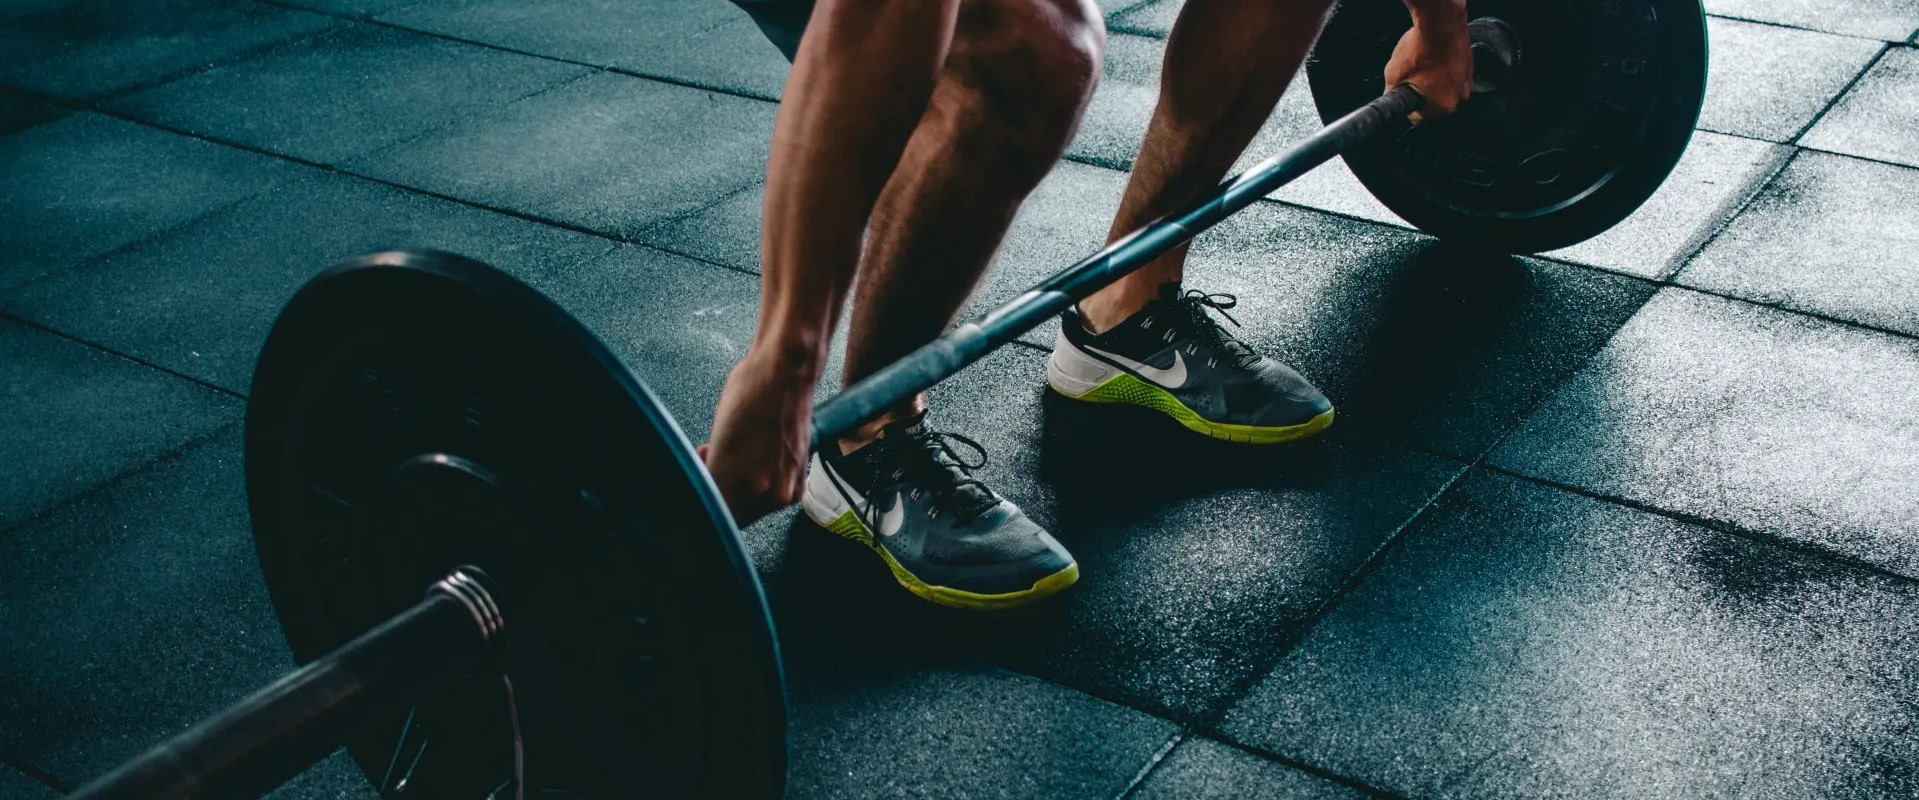
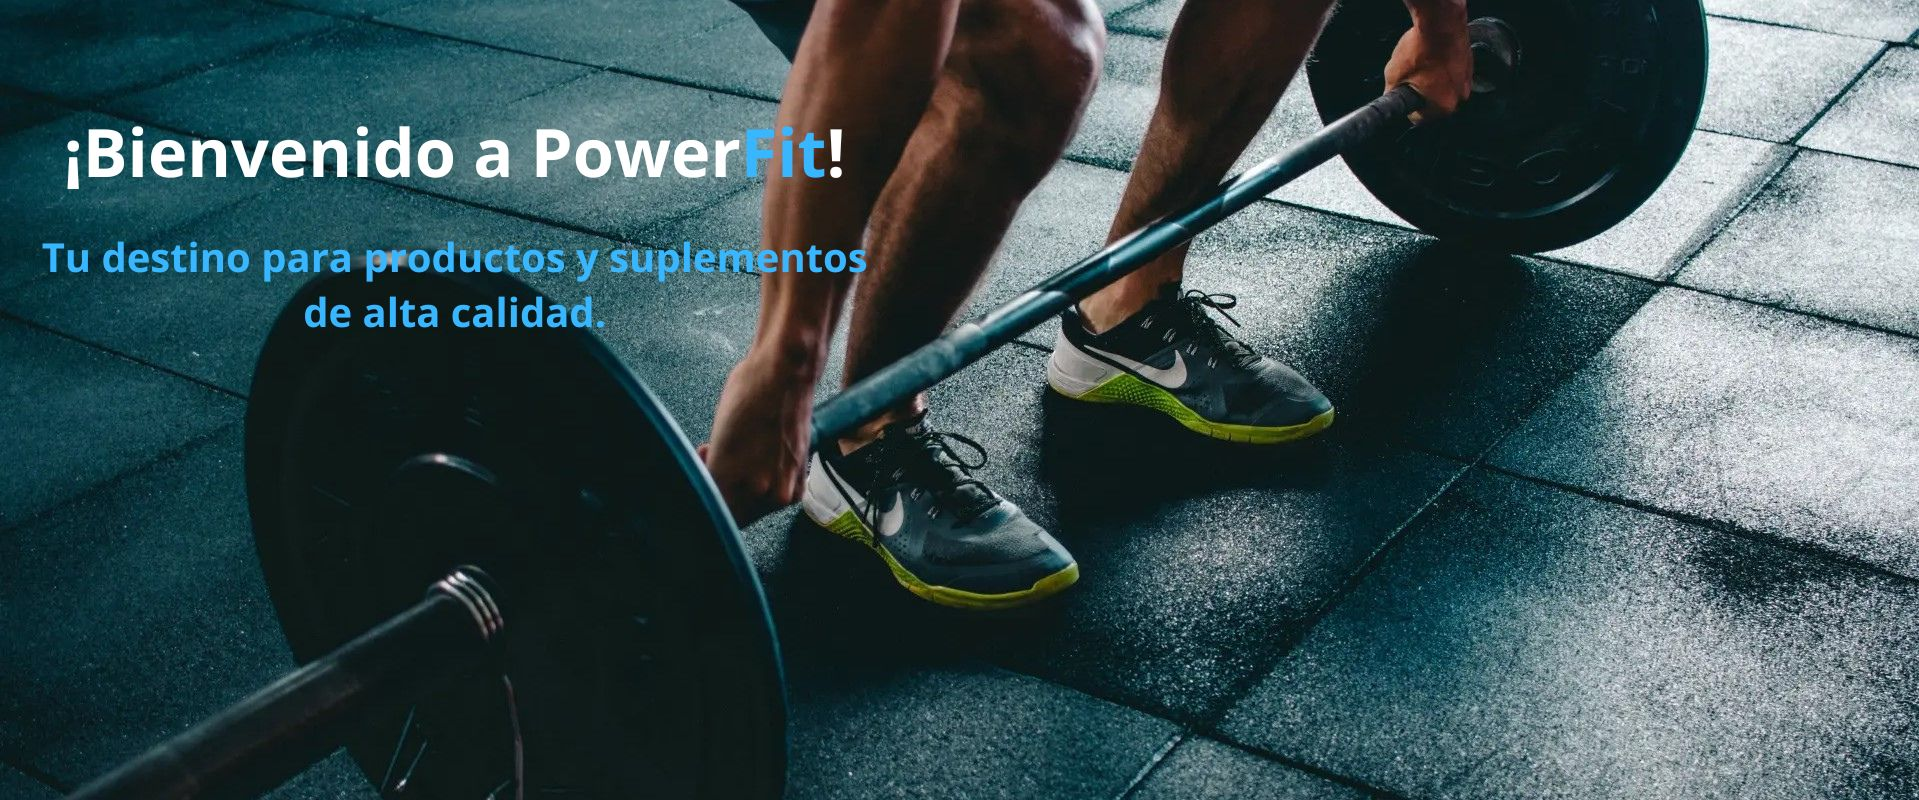
feat: avance estructura principal

Changed region(s): [[0.0307, 0.1562, 0.4612, 0.25], [0.0, 0.3125, 0.4612, 0.3438], [0.1537, 0.375, 0.3075, 0.4062]]

diff --git a/frontend/E-commerce/src/Componentes/Principal/principal.jsx b/frontend/E-commerce/src/Componentes/Principal/principal.jsx
@@ -1,4 +1,3 @@
-
 import banner from '../../assets/banner.jpg';
 import entrenamiento from '../../assets/entrenamiento.webp';
 import * as React from 'react';
@@ -12,75 +11,107 @@ import Divider from '@mui/material/Divider';
 import Box from '@mui/material/Box';
 import List from '@mui/material/List';
 import ListItem from '@mui/material/ListItem';
+import CheckIcon from '@mui/icons-material/Check';
+import Button from '@mui/material/Button';
 
 export default function principal() {
   return (
     <>
       <img src={banner} alt="Banner" />
-      <Divider sx={{ width:'70%', m:3 }} />
-      <Typography variant="h1" sx={{ 
-        fontSize: '3rem', 
-        fontWeight: '600', 
-        color: '#333', 
-        textAlign: 'center',
-      }}>
+      <Divider sx={{ width: '70%', m: 3 }} />
+      <Typography
+        variant="h1"
+        sx={{
+          fontSize: '3rem',
+          fontWeight: '600',
+          color: '#333',
+          textAlign: 'center',
+        }}
+      >
         Categorias
       </Typography>
 
-        <Grid container spacing={12}> 
-          <Grid item xs={4}> 
-            <Carta suplementos={suplementos} titulo="Suplementos"/>
-          </Grid>
-          <Grid item xs={4}>
-            <Carta suplementos={kinesiologia} titulo="Kinesiologia"/>
-          </Grid>
-          <Grid item xs={4}>
-          <Carta suplementos={gimnasio} titulo="Gimnasio"/>
-          </Grid>
+      <Grid container spacing={12}>
+        <Grid item xs={4}>
+          <Carta suplementos={suplementos} titulo="Suplementos" />
         </Grid>
-        <Divider sx={{ width:'70%', m:3 }} />
+        <Grid item xs={4}>
+          <Carta suplementos={kinesiologia} titulo="Kinesiologia" />
+        </Grid>
+        <Grid item xs={4}>
+          <Carta suplementos={gimnasio} titulo="Gimnasio" />
+        </Grid>
+      </Grid>
+      <Divider sx={{ width: '70%', m: 3 }} />
 
-        <Box sx={{width:'1980px'}} >
-          <Grid container spacing={4}>
-            <Grid item> 
-            <img src={entrenamiento} alt="entrenamiento"  />
-            </Grid>
-            <Grid>
-
-              <Box
+      <Box sx={{ width: '1980px' }}>
+        <Grid container spacing={4}>
+          <Grid item>
+            <img src={entrenamiento} alt="entrenamiento" />
+          </Grid>
+          <Grid>
+            <Box
               flex={1}
               padding={4}
-              sx={{  bgcolor: '#f5f5f5', borderRadius: '8px', height:'515px' }}
+              sx={{ bgcolor: '#f5f5f5', borderRadius: '8px', height: '515px' }}
+            >
+              <Typography
+                variant="h3"
+                gutterBottom
+                sx={{ fontWeight: 'bold', color: '#333', textAlign: 'left' }}
               >
-              <Typography variant="h3" gutterBottom sx={{ fontWeight: 'bold', color: '#333' }}>
                 Descubre nuestros productos
               </Typography>
               <List>
-                <ListItem sx={{ fontSize: '1.2rem', lineHeight: '1.5' }}>
-                  Suplementos de alta calidad para potenciar tu rendimiento.
+                <ListItem sx={{ fontSize: '1.5rem', lineHeight: '1.5' }}>
+                  <CheckIcon sx={{color:'#00a1ed'}}/> Suplementos de alta calidad para potenciar tu rendimiento.
                 </ListItem>
-                <ListItem sx={{ fontSize: '1.2rem', lineHeight: '1.5' }}>
-                  Productos específicos para cada objetivo: musculación, pérdida de peso y más.
+                <ListItem sx={{ fontSize: '1.5rem', lineHeight: '1.5' }}>
+                  <CheckIcon sx={{color:'#00a1ed'}}/> Productos específicos para cada objetivo: musculación, pérdida
+                  de peso y más.
                 </ListItem>
-                <ListItem sx={{ fontSize: '1.2rem', lineHeight: '1.5' }}>
-                  Accesorios de gimnasio para un entrenamiento efectivo en casa o en el gym.
+                <ListItem sx={{ fontSize: '1.5rem', lineHeight: '1.5' }}>
+                  <CheckIcon sx={{color:'#00a1ed'}}/> Accesorios de gimnasio para un entrenamiento efectivo en casa o
+                  en el gym.
                 </ListItem>
-                <ListItem sx={{ fontSize: '1.2rem', lineHeight: '1.5' }}>
-                  Sabores deliciosos en cada suplemento, ¡disfruta mientras te cuidas!
+                <ListItem sx={{ fontSize: '1.5rem', lineHeight: '1.5' }}>
+                  <CheckIcon sx={{color:'#00a1ed'}}/> Sabores deliciosos en cada suplemento, ¡disfruta mientras te
+                  cuidas!
                 </ListItem>
-                <ListItem sx={{ fontSize: '1.2rem', lineHeight: '1.5' }}>
-                  Productos diseñados para ayudarte a construir hábitos saludables.
+                <ListItem sx={{ fontSize: '1.5rem', lineHeight: '1.5' }}>
+                  <CheckIcon sx={{color:'#00a1ed'}}/> Productos diseñados para ayudarte a construir hábitos
+                  saludables.
                 </ListItem>
-                <ListItem sx={{ fontSize: '1.2rem', lineHeight: '1.5' }}>
-                  Asesoría personalizada para encontrar lo que mejor se adapta a ti.
-                </ListItem>
+                <Button 
+                  variant="outlined" 
+                  sx={{ 
+                    width: '200px',       
+                    padding: '12px 24px',
+                    backgroundColor: '#00a1ed',
+                    color: '#fff',
+                    borderRadius: '8px',
+                    m:5
+                  }}
+                >
+                  Comprar ahora
+                </Button>
               </List>
-              </Box>
-
-            </Grid>
+            </Box>
           </Grid>
-        </Box>
-
+        </Grid>
+      </Box>
+      <Divider sx={{ width: '70%', m: 3 }} />
+      <Typography
+        variant="h1"
+        sx={{
+          fontSize: '3rem',
+          fontWeight: '600',
+          color: '#333',
+          textAlign: 'center',
+        }}
+      >
+        Productos destacados
+      </Typography>
     </>
-  )
+  );
 }

diff --git a/frontend/E-commerce/src/Componentes/Header/header.jsx b/frontend/E-commerce/src/Componentes/Header/header.jsx
@@ -4,7 +4,6 @@ import Box from '@mui/material/Box';
 import Toolbar from '@mui/material/Toolbar';
 import Typography from '@mui/material/Typography';
 import SearchIcon from '@mui/icons-material/Search';
-import AccountCircle from '@mui/icons-material/AccountCircle';
 import ShoppingCartIcon from '@mui/icons-material/ShoppingCart';
 import Button from '@mui/material/Button';
 import FitnessCenterIcon from '@mui/icons-material/FitnessCenter';
@@ -15,6 +14,8 @@ import TextField from '@mui/material/TextField';
 import InputAdornment from '@mui/material/InputAdornment';
 import { IconButton } from '@mui/material';
 import Divider from '@mui/material/Divider';
+import Cuenta from './cuenta';
+import Carrito from './carrito';
 
 export default function Header() {
   const [valorBuscador, setValorBuscador] = useState('');
@@ -35,9 +36,9 @@ export default function Header() {
     <>
       <AppBar position="fixed" sx={{ backgroundColor: '#1C1C1C' }}>
         <Toolbar>
-          <Typography variant="h6" component="a" sx={{ ml: 1 }} id='nombre'>
+          <Typography variant="h6" component="a" sx={{ ml: 1 }}>
             <FitnessCenterIcon />
-            PowerFit
+            <span  id='nombre'>Power</span><span id='nombre2'>Fit</span>
           </Typography>
           
           <Box sx={{ flexGrow: 1, display: 'flex', justifyContent: 'center' }}>
@@ -77,14 +78,8 @@ export default function Header() {
             />
           </Box>
           <Box sx={{ display: { xs: 'none', md: 'flex' }}}>
-            <Button sx={{ color: '#00a1ed' }}>
-              <AccountCircle />
-              Mi cuenta
-            </Button>
-            <Button sx={{ backgroundColor: '#00a1ed', color: 'white' , m:1 }}>
-              <ShoppingCartIcon />
-              Carrito (0)
-            </Button>
+            <Cuenta />
+            <Carrito/>
           </Box>
         </Toolbar>
       </AppBar>

diff --git a/frontend/E-commerce/src/Componentes/Header/cuenta.jsx b/frontend/E-commerce/src/Componentes/Header/cuenta.jsx
@@ -1,0 +1,53 @@
+import React, {useState} from 'react'
+import Menu from '@mui/material/Menu';
+import MenuItem from '@mui/material/MenuItem';
+import AccountCircle from '@mui/icons-material/AccountCircle';
+import Button from '@mui/material/Button';
+import ShoppingBasketIcon from '@mui/icons-material/ShoppingBasket';
+import LockOpenIcon from '@mui/icons-material/LockOpen';
+import LogoutIcon from '@mui/icons-material/Logout';
+
+export default function Cuenta() {
+  const [anchorEl, setAnchorEl] = useState(null);
+  const open = Boolean(anchorEl);
+  const handleClick = (event) => {
+    setAnchorEl(event.currentTarget);
+  };
+  const handleClose = () => {
+    setAnchorEl(null);
+  };
+  return (
+    <>
+      <Button 
+        id="basic-button"
+        aria-controls={open ? 'basic-menu' : undefined}
+        aria-haspopup="true"
+        aria-expanded={open ? 'true' : undefined}
+        onClick={handleClick}
+        sx={{ color: '#00a1ed' }}
+        >
+        <AccountCircle />
+        Mi cuenta
+      </Button>
+      <Menu
+        id="basic-menu"
+        anchorEl={anchorEl}
+        open={open}
+        onClose={handleClose}
+        MenuListProps={{
+          'aria-labelledby': 'basic-button',
+        }}
+      >
+        <MenuItem onClick={handleClose} sx={{ display: 'flex', alignItems: 'center' }}>
+          <ShoppingBasketIcon sx={{ marginRight: 1 }} /> Mis compras
+        </MenuItem>
+        <MenuItem onClick={handleClose} sx={{ display: 'flex', alignItems: 'center' }}>
+          <LockOpenIcon sx={{ marginRight: 1 }} /> Cambiar contraseña
+        </MenuItem>
+        <MenuItem onClick={handleClose} sx={{ display: 'flex', alignItems: 'center' }}>
+          <LogoutIcon sx={{ marginRight: 1 }} /> Cerrar sesión
+        </MenuItem>
+      </Menu>
+    </>
+  )
+}

diff --git a/frontend/E-commerce/src/Componentes/Header/carrito.jsx b/frontend/E-commerce/src/Componentes/Header/carrito.jsx
@@ -1,0 +1,47 @@
+import React from 'react'
+import {  Button, Drawer, Box, Typography, Divider } from '@mui/material';
+import { useState } from 'react';
+import ShoppingCartIcon from '@mui/icons-material/ShoppingCart';
+import CloseIcon from '@mui/icons-material/Close';
+
+export default function Carrito() {
+  const [drawerOpen, setDrawerOpen] = useState(false);
+
+  const handleDrawerToggle = () => {
+    setDrawerOpen(!drawerOpen);
+  };
+
+  return (
+    <>
+      <Button onClick={handleDrawerToggle} sx={{ backgroundColor: '#00a1ed', color: 'white' , m:1 }}>
+        <ShoppingCartIcon />
+        Carrito (0)
+      </Button>
+      <Drawer
+        anchor="right"
+        open={drawerOpen}
+        onClose={handleDrawerToggle}
+      >
+        <Box
+          sx={{ width: '20vw' }}
+          role="presentation"
+          onClick={handleDrawerToggle}
+          onKeyDown={handleDrawerToggle}
+        >
+          <Typography
+            variant="h1"
+            sx={{
+              fontSize: '1.5rem',
+              fontWeight: '600',
+              color: '#333',
+              m:2
+            }}
+          >
+          Tu carrito
+          </Typography>
+          <Divider/>
+        </Box>
+      </Drawer>
+    </>
+  )
+}

diff --git a/frontend/E-commerce/src/Componentes/Header/header.css b/frontend/E-commerce/src/Componentes/Header/header.css
@@ -1,5 +1,12 @@
 #nombre{
 	margin: 2px;
+	color: #fff; 
+	text-shadow: 2px 2px 4px rgba(0, 0, 0, 0.5);
+	font-weight: bold; 
+	font-size: 2em; 	
+}
+#nombre2{
+	margin: 2px;
 	color: #00a1ed; 
 	text-shadow: 2px 2px 4px rgba(0, 0, 0, 0.5);
 	font-weight: bold; 
